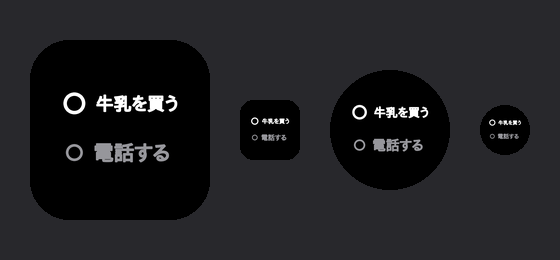
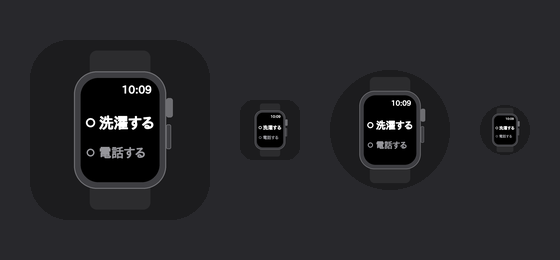
盤面タスク: アイコンを Apple Watch の輪郭付きに
ケース・デジタルクラウン・バンドの輪郭の中に、文字盤と同じ2行のタスクを描く。
「Watch 上の表示」だと一目で分かるようにするため。2行のフォントは同じ基準サイズ。

Claude-Session: https://claude.ai/code/session_01LtCZT7mnmAya1MriyLPVKG

diff --git a/Tools/make-icon.py b/Tools/make-icon.py
@@ -1,8 +1,9 @@
 #!/usr/bin/env python3
 """アプリアイコンを生成する。黒背景に、文字盤のコンプリケーションと同じ「2行のタスク」。
 
-  python3 Tools/make-icon.py            text 版（既定。文字盤の見た目そのまま）
-  python3 Tools/make-icon.py bars       bars 版（円＋バー。小さくても崩れない）
+  python3 Tools/make-icon.py            watch 版（既定。Apple Watch の輪郭の中に2行）
+  python3 Tools/make-icon.py text       text 版（黒地に2行だけ）
+  python3 Tools/make-icon.py bars       bars 版（円＋バー）
 
 出力先: iOS/Assets.xcassets と Watch/Assets.xcassets の AppIcon（1024x1024）
 """
@@ -22,7 +23,50 @@ def circle(d, cx, cy, r, color, width):
 def bar(d, x, y, w, h, color):
     d.rounded_rectangle([x, y, x + w, y + h], radius=h // 2, fill=color)
 
+def render_watch():
+    """Apple Watch の輪郭の中に、文字盤のコンプリケーションを描く。"""
+    BG = (28, 28, 30)
+    BAND = (44, 44, 46)
+    CASE = (62, 62, 66)
+    EDGE = (110, 110, 114)
+    img = Image.new("RGB", (SIZE, SIZE), BG)
+    d = ImageDraw.Draw(img)
+
+    # バンド（上下に少しだけ見せる）
+    d.rounded_rectangle([340, 60, 684, 964], radius=40, fill=BAND)
+    # ケース
+    d.rounded_rectangle([250, 178, 774, 846], radius=130, fill=CASE, outline=EDGE, width=6)
+    # デジタルクラウンとサイドボタン
+    d.rounded_rectangle([774, 330, 812, 440], radius=14, fill=EDGE)
+    d.rounded_rectangle([774, 480, 802, 620], radius=10, fill=CASE, outline=EDGE, width=4)
+    # 画面
+    sx0, sy0, sx1, sy1 = 288, 216, 736, 808
+    d.rounded_rectangle([sx0, sy0, sx1, sy1], radius=100, fill=BLACK)
+
+    # 画面内: 右上に時刻、その下にタスク2行
+    d.text((sx1 - 44, sy0 + 44), "10:09", font=ImageFont.truetype(FONT, 60),
+           fill=WHITE, anchor="rt", stroke_width=2, stroke_fill=WHITE)
+    # 2行とも同じ基準サイズ。1行目が収まる最大サイズを求め、2行目はその 85%。
+    pad = 30
+    rows = [(470, WHITE, "洗濯する", 1.0), (640, GRAY, "電話する", 0.85)]
+    r0 = 26
+    x0 = sx0 + pad + r0 * 2 + 22
+    size = 120
+    while size > 30:
+        font = ImageFont.truetype(FONT, size)
+        if d.textlength(rows[0][2], font=font) <= sx1 - pad - x0: break
+        size -= 3
+    for cy, color, label, scale in rows:
+        r = int(r0 * scale)
+        circle(d, sx0 + pad + r0, cy, r, color, int(10 * scale))
+        font = ImageFont.truetype(FONT, int(size * scale))
+        d.text((x0, cy), label, font=font, fill=color, anchor="lm",
+               stroke_width=max(2, int(size * scale) // 25), stroke_fill=color)
+    return img
+
 def render(variant):
+    if variant == "watch":
+        return render_watch()
     img = Image.new("RGB", (SIZE, SIZE), BLACK)
     d = ImageDraw.Draw(img)
     # watchOS は円マスクなので、中央 70% に収める
@@ -60,7 +104,7 @@ def write_asset(img, xcassets_dir, platform):
               open(os.path.join(xcassets_dir, "Contents.json"), "w"), indent=2)
 
 if __name__ == "__main__":
-    variant = sys.argv[1] if len(sys.argv) > 1 else "text"
+    variant = sys.argv[1] if len(sys.argv) > 1 else "watch"
     img = render(variant)
     write_asset(img, os.path.join(ROOT, "iOS", "Assets.xcassets"), "ios")
     write_asset(img, os.path.join(ROOT, "Watch", "Assets.xcassets"), "watchos")
